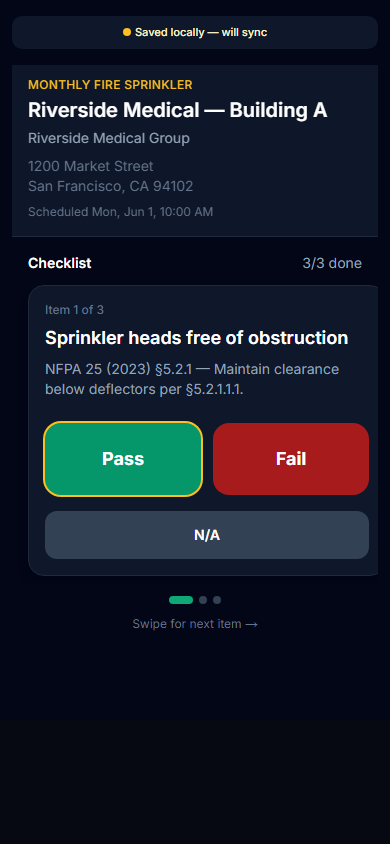
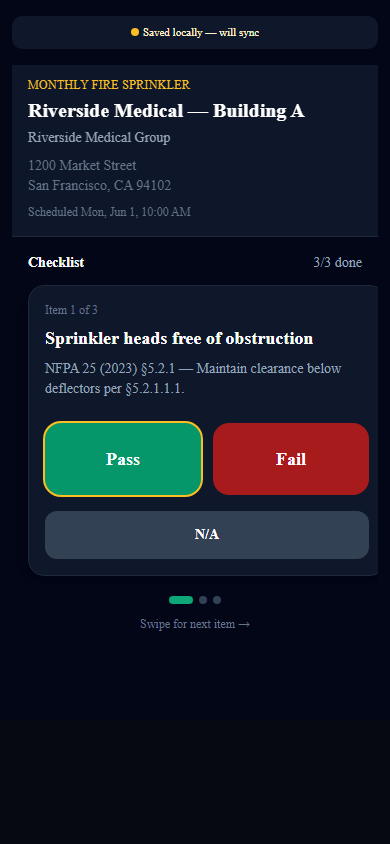
Wire landing screenshots to marketing-screenshot capture pipeline.

diff --git a/components/marketing/product-previews.tsx b/components/marketing/product-previews.tsx
@@ -1,16 +1,19 @@
 import { ProductScreenshot } from "@/components/marketing/product-screenshot";
+import {
+  getMarketingScreenshotAsset,
+  marketingScreenshotAssets,
+  marketingScreenshotPaths,
+} from "@/lib/marketing/screenshot-assets";
 
-export const marketingScreenshotPaths = {
-  fieldInspection: "/marketing/field-inspection.png",
-  complianceReport: "/marketing/compliance-report.png",
-  commandCenter: "/marketing/command-center.png",
-} as const;
+export { marketingScreenshotPaths };
 
 type ProductShowcaseItem = {
   title: string;
   description: string;
   imageSrc: string;
   imageAlt: string;
+  imageWidth: number;
+  imageHeight: number;
 };
 
 export const productShowcase: ProductShowcaseItem[] = [
@@ -18,24 +21,35 @@ export const productShowcase: ProductShowcaseItem[] = [
     title: "NFPA field inspection",
     description:
       "Technicians swipe through citation-backed checklist items on their phone. Big pass/fail controls, offline sync, and deficiency photos on failed items only.",
-    imageSrc: marketingScreenshotPaths.fieldInspection,
-    imageAlt: "GetFlareflow mobile inspection checklist with NFPA citation and pass or fail controls",
+    ...pickShowcaseImage("field-inspection"),
+    imageAlt:
+      "GetFlareflow mobile inspection checklist with NFPA citation and pass or fail controls",
   },
   {
     title: "Client-ready compliance report",
     description:
       "Submit once — GetFlareflow generates a branded PDF with NFPA references, pass/fail summary, photos, and signature. Email it to the customer automatically.",
-    imageSrc: marketingScreenshotPaths.complianceReport,
+    ...pickShowcaseImage("compliance-report"),
     imageAlt: "Public compliance report page with PDF download for the building owner",
   },
   {
     title: "Command center for owners",
     description:
       "See overdue buildings, open deficiencies, draft repair quotes from failed items, and reports sent this month — without digging through spreadsheets.",
-    imageSrc: marketingScreenshotPaths.commandCenter,
-    imageAlt: "GetFlareflow command center dashboard showing overdue inspections and quote workload",
+    ...pickShowcaseImage("command-center"),
+    imageAlt:
+      "GetFlareflow command center dashboard showing overdue inspections and quote workload",
   },
 ];
+
+function pickShowcaseImage(id: (typeof marketingScreenshotAssets)[number]["id"]) {
+  const asset = getMarketingScreenshotAsset(id);
+  return {
+    imageSrc: asset.imagePath,
+    imageWidth: asset.imageWidth,
+    imageHeight: asset.imageHeight,
+  };
+}
 
 export function ProductShowcaseImage({
   item,
@@ -44,12 +58,26 @@ export function ProductShowcaseImage({
   item: ProductShowcaseItem;
   priority?: boolean;
 }) {
+  const isTallMobile =
+    item.imageHeight > item.imageWidth && item.imageHeight > 500;
+
   return (
     <ProductScreenshot
       src={item.imageSrc}
       alt={item.imageAlt}
+      width={item.imageWidth}
+      height={item.imageHeight}
       priority={priority}
-      className="max-h-[340px] object-cover object-top"
+      className={
+        isTallMobile
+          ? "mx-auto max-h-[340px] max-w-[220px] object-contain object-top"
+          : "max-h-[340px] object-cover object-top"
+      }
+      sizes={
+        isTallMobile
+          ? "220px"
+          : "(max-width: 1024px) 100vw, 320px"
+      }
     />
   );
 }

diff --git a/lib/marketing/screenshot-assets.ts b/lib/marketing/screenshot-assets.ts
@@ -1,0 +1,58 @@
+/**
+ * Marketing screenshots: capture from /marketing-screenshot/* → public/marketing/*.png
+ * Regenerate: npm run marketing:screenshots (dev server required)
+ */
+export type MarketingScreenshotAsset = {
+  id: string;
+  /** Public preview route (real app components + demo data). */
+  previewPath: `/marketing-screenshot/${string}`;
+  /** Committed PNG served on the landing page. */
+  imagePath: `/marketing/${string}.png`;
+  captureViewport: { width: number; height: number };
+  imageWidth: number;
+  imageHeight: number;
+};
+
+export const marketingScreenshotAssets = [
+  {
+    id: "field-inspection",
+    previewPath: "/marketing-screenshot/field-inspection",
+    imagePath: "/marketing/field-inspection.png",
+    captureViewport: { width: 390, height: 844 },
+    imageWidth: 390,
+    imageHeight: 844,
+  },
+  {
+    id: "compliance-report",
+    previewPath: "/marketing-screenshot/compliance-report",
+    imagePath: "/marketing/compliance-report.png",
+    captureViewport: { width: 420, height: 844 },
+    imageWidth: 420,
+    imageHeight: 844,
+  },
+  {
+    id: "command-center",
+    previewPath: "/marketing-screenshot/command-center",
+    imagePath: "/marketing/command-center.png",
+    captureViewport: { width: 1280, height: 900 },
+    imageWidth: 1280,
+    imageHeight: 900,
+  },
+] as const satisfies readonly MarketingScreenshotAsset[];
+
+export type MarketingScreenshotId = (typeof marketingScreenshotAssets)[number]["id"];
+
+const assetById = Object.fromEntries(
+  marketingScreenshotAssets.map((asset) => [asset.id, asset]),
+) as Record<MarketingScreenshotId, (typeof marketingScreenshotAssets)[number]>;
+
+export function getMarketingScreenshotAsset(id: MarketingScreenshotId) {
+  return assetById[id];
+}
+
+/** @deprecated Use marketingScreenshotAssets — kept for imports that expect path map. */
+export const marketingScreenshotPaths = {
+  fieldInspection: assetById["field-inspection"].imagePath,
+  complianceReport: assetById["compliance-report"].imagePath,
+  commandCenter: assetById["command-center"].imagePath,
+} as const;

diff --git a/scripts/capture-marketing-screenshots.ts b/scripts/capture-marketing-screenshots.ts
@@ -8,30 +8,13 @@
 import fs from "node:fs";
 import path from "node:path";
 import { chromium } from "playwright";
+import { marketingScreenshotAssets } from "../lib/marketing/screenshot-assets";
 
 const OUT_DIR = path.join(process.cwd(), "public", "marketing");
 const BASE_URL = (process.env.PLAYWRIGHT_BASE_URL ?? "http://127.0.0.1:3000").replace(
   /\/$/,
   "",
 );
-
-const shots = [
-  {
-    path: "/marketing-screenshot/field-inspection",
-    file: "field-inspection.png",
-    viewport: { width: 390, height: 844 },
-  },
-  {
-    path: "/marketing-screenshot/compliance-report",
-    file: "compliance-report.png",
-    viewport: { width: 420, height: 844 },
-  },
-  {
-    path: "/marketing-screenshot/command-center",
-    file: "command-center.png",
-    viewport: { width: 1280, height: 900 },
-  },
-] as const;
 
 async function main() {
   fs.mkdirSync(OUT_DIR, { recursive: true });
@@ -40,15 +23,16 @@ async function main() {
   const page = await browser.newPage();
   page.setDefaultTimeout(60_000);
 
-  for (const shot of shots) {
-    await page.setViewportSize(shot.viewport);
-    await page.goto(`${BASE_URL}${shot.path}`, { waitUntil: "networkidle" });
+  for (const asset of marketingScreenshotAssets) {
+    const file = path.basename(asset.imagePath);
+    await page.setViewportSize(asset.captureViewport);
+    await page.goto(`${BASE_URL}${asset.previewPath}`, { waitUntil: "networkidle" });
     await page.waitForTimeout(500);
     await page.screenshot({
-      path: path.join(OUT_DIR, shot.file),
+      path: path.join(OUT_DIR, file),
       fullPage: false,
     });
-    console.log(`Wrote public/marketing/${shot.file}`);
+    console.log(`Captured ${asset.previewPath} → public/marketing/${file}`);
   }
 
   await browser.close();

diff --git a/components/marketing/product-screenshot.tsx b/components/marketing/product-screenshot.tsx
@@ -4,28 +4,34 @@ import { cn } from "@/lib/utils";
 type ProductScreenshotProps = {
   src: string;
   alt: string;
+  width: number;
+  height: number;
   className?: string;
+  sizes?: string;
   priority?: boolean;
 };
 
 export function ProductScreenshot({
   src,
   alt,
+  width,
+  height,
   className,
+  sizes = "(max-width: 1024px) 100vw, 320px",
   priority = false,
 }: ProductScreenshotProps) {
   return (
     <Image
       src={src}
       alt={alt}
-      width={640}
-      height={400}
+      width={width}
+      height={height}
       priority={priority}
       className={cn(
         "h-auto w-full rounded-xl border border-border/80 bg-background shadow-lg ring-1 ring-border/40",
         className,
       )}
-      sizes="(max-width: 1024px) 100vw, 320px"
+      sizes={sizes}
     />
   );
 }

diff --git a/README.md b/README.md
@@ -25,6 +25,7 @@ Open [http://localhost:3000](http://localhost:3000).
 npm run db:seed                      # demo customer, building, inspections
 npm run storage:ensure-bucket        # Supabase bucket for inspection photos
 npm run fix-user -- user_xxx owner   # link your Clerk user (see .env.example)
+npm run marketing:screenshots        # refresh public/marketing/*.png from /marketing-screenshot/*
 ```
 
 > **WARNING:** This script is for **DEVELOPMENT ONLY**. It links a Clerk user to a seeded database record by matching email. Never run this in production. In production, the Clerk webhook handles user creation automatically.
